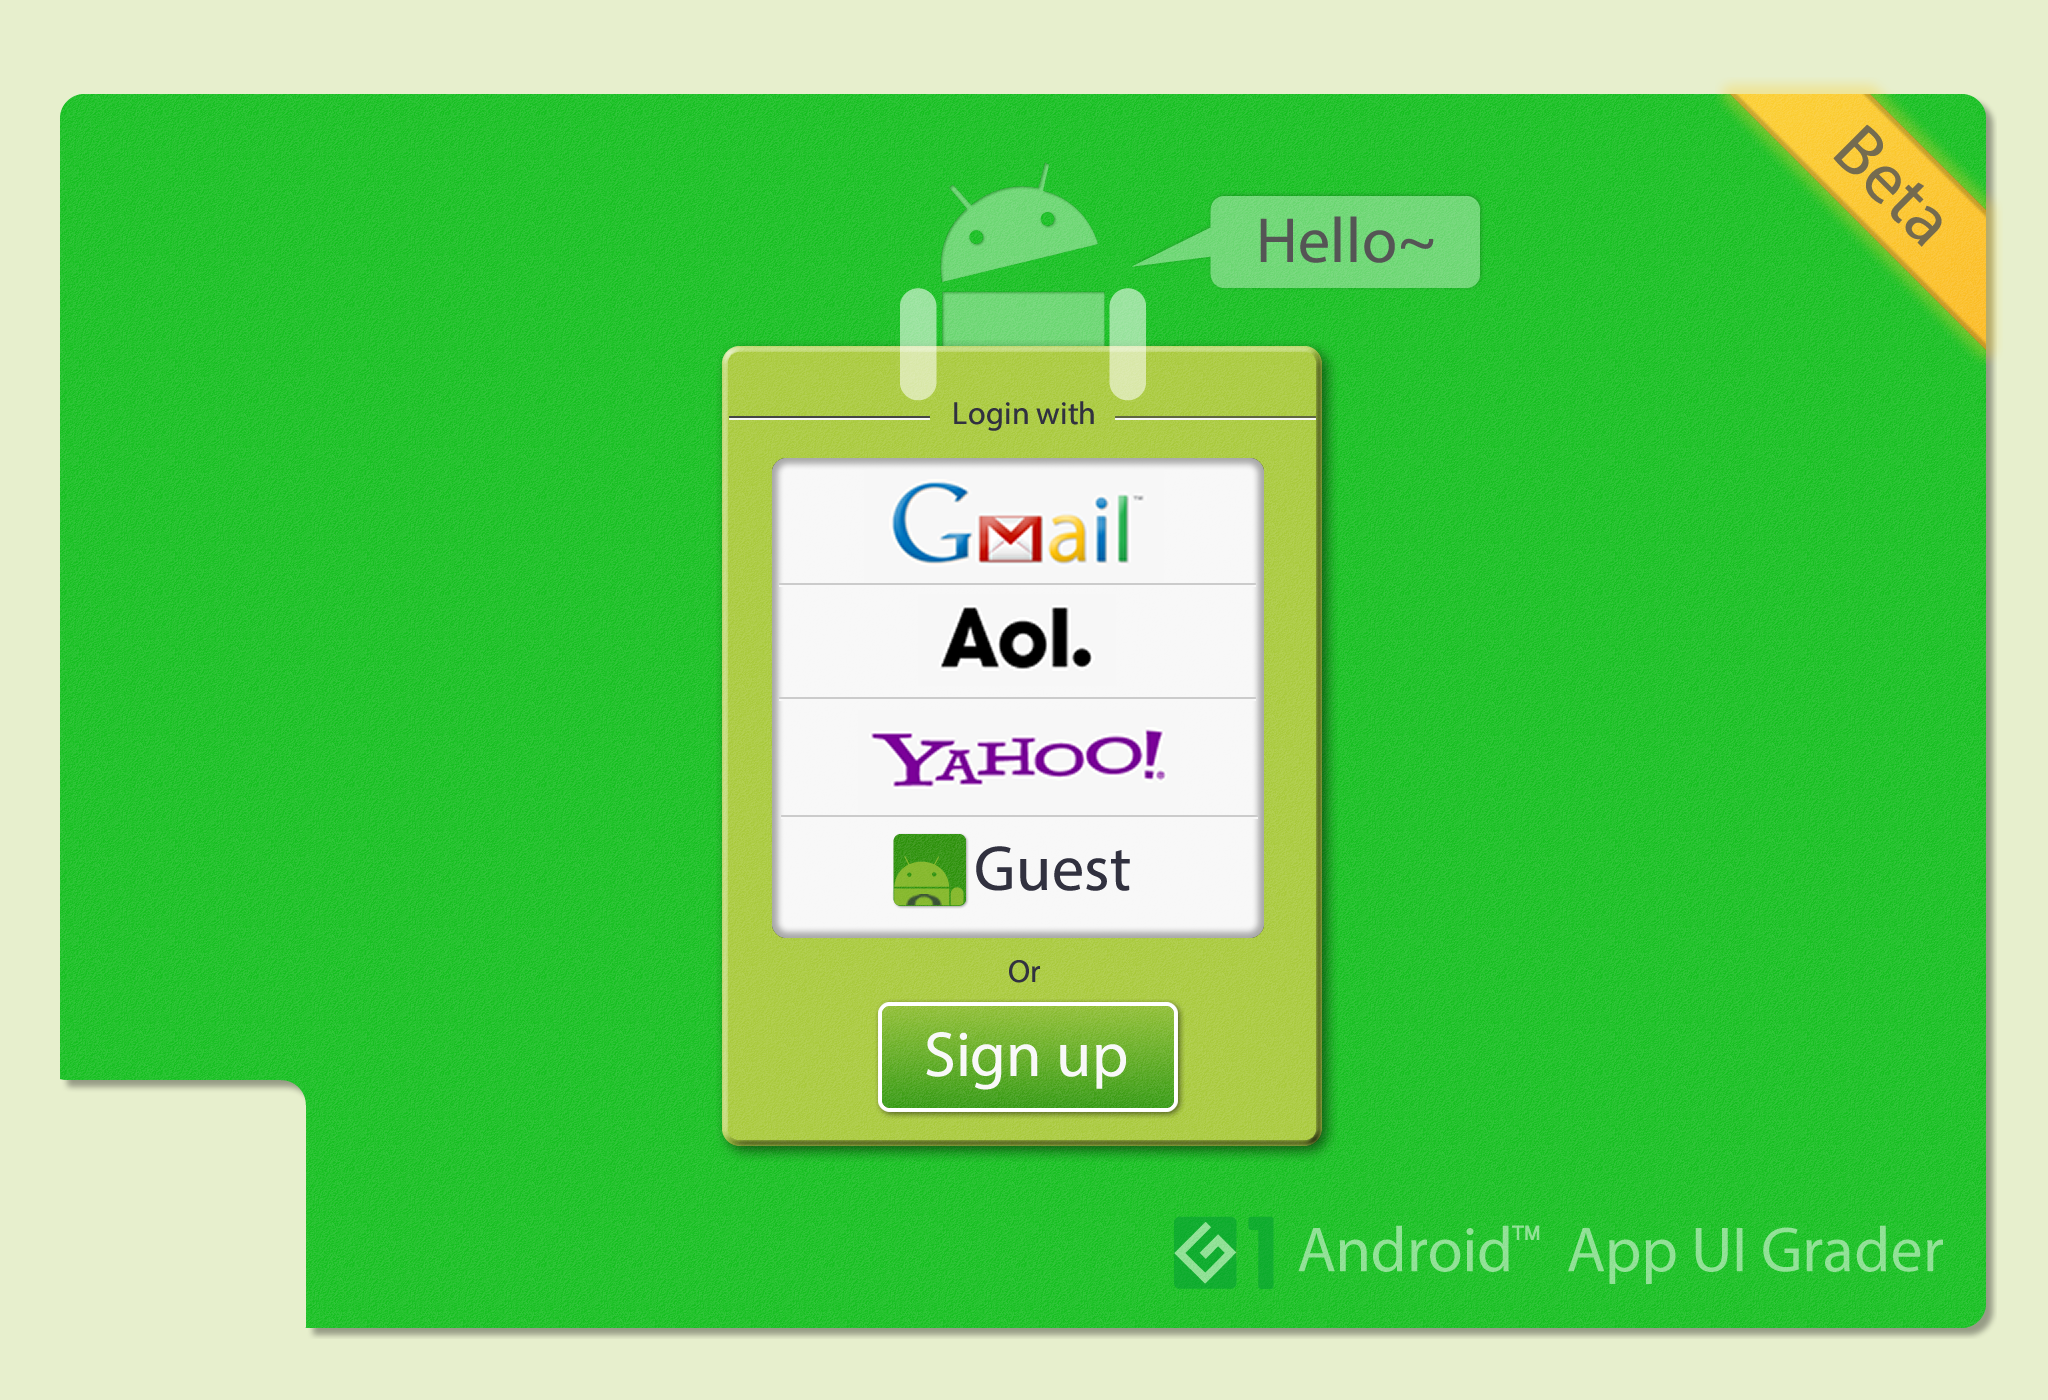
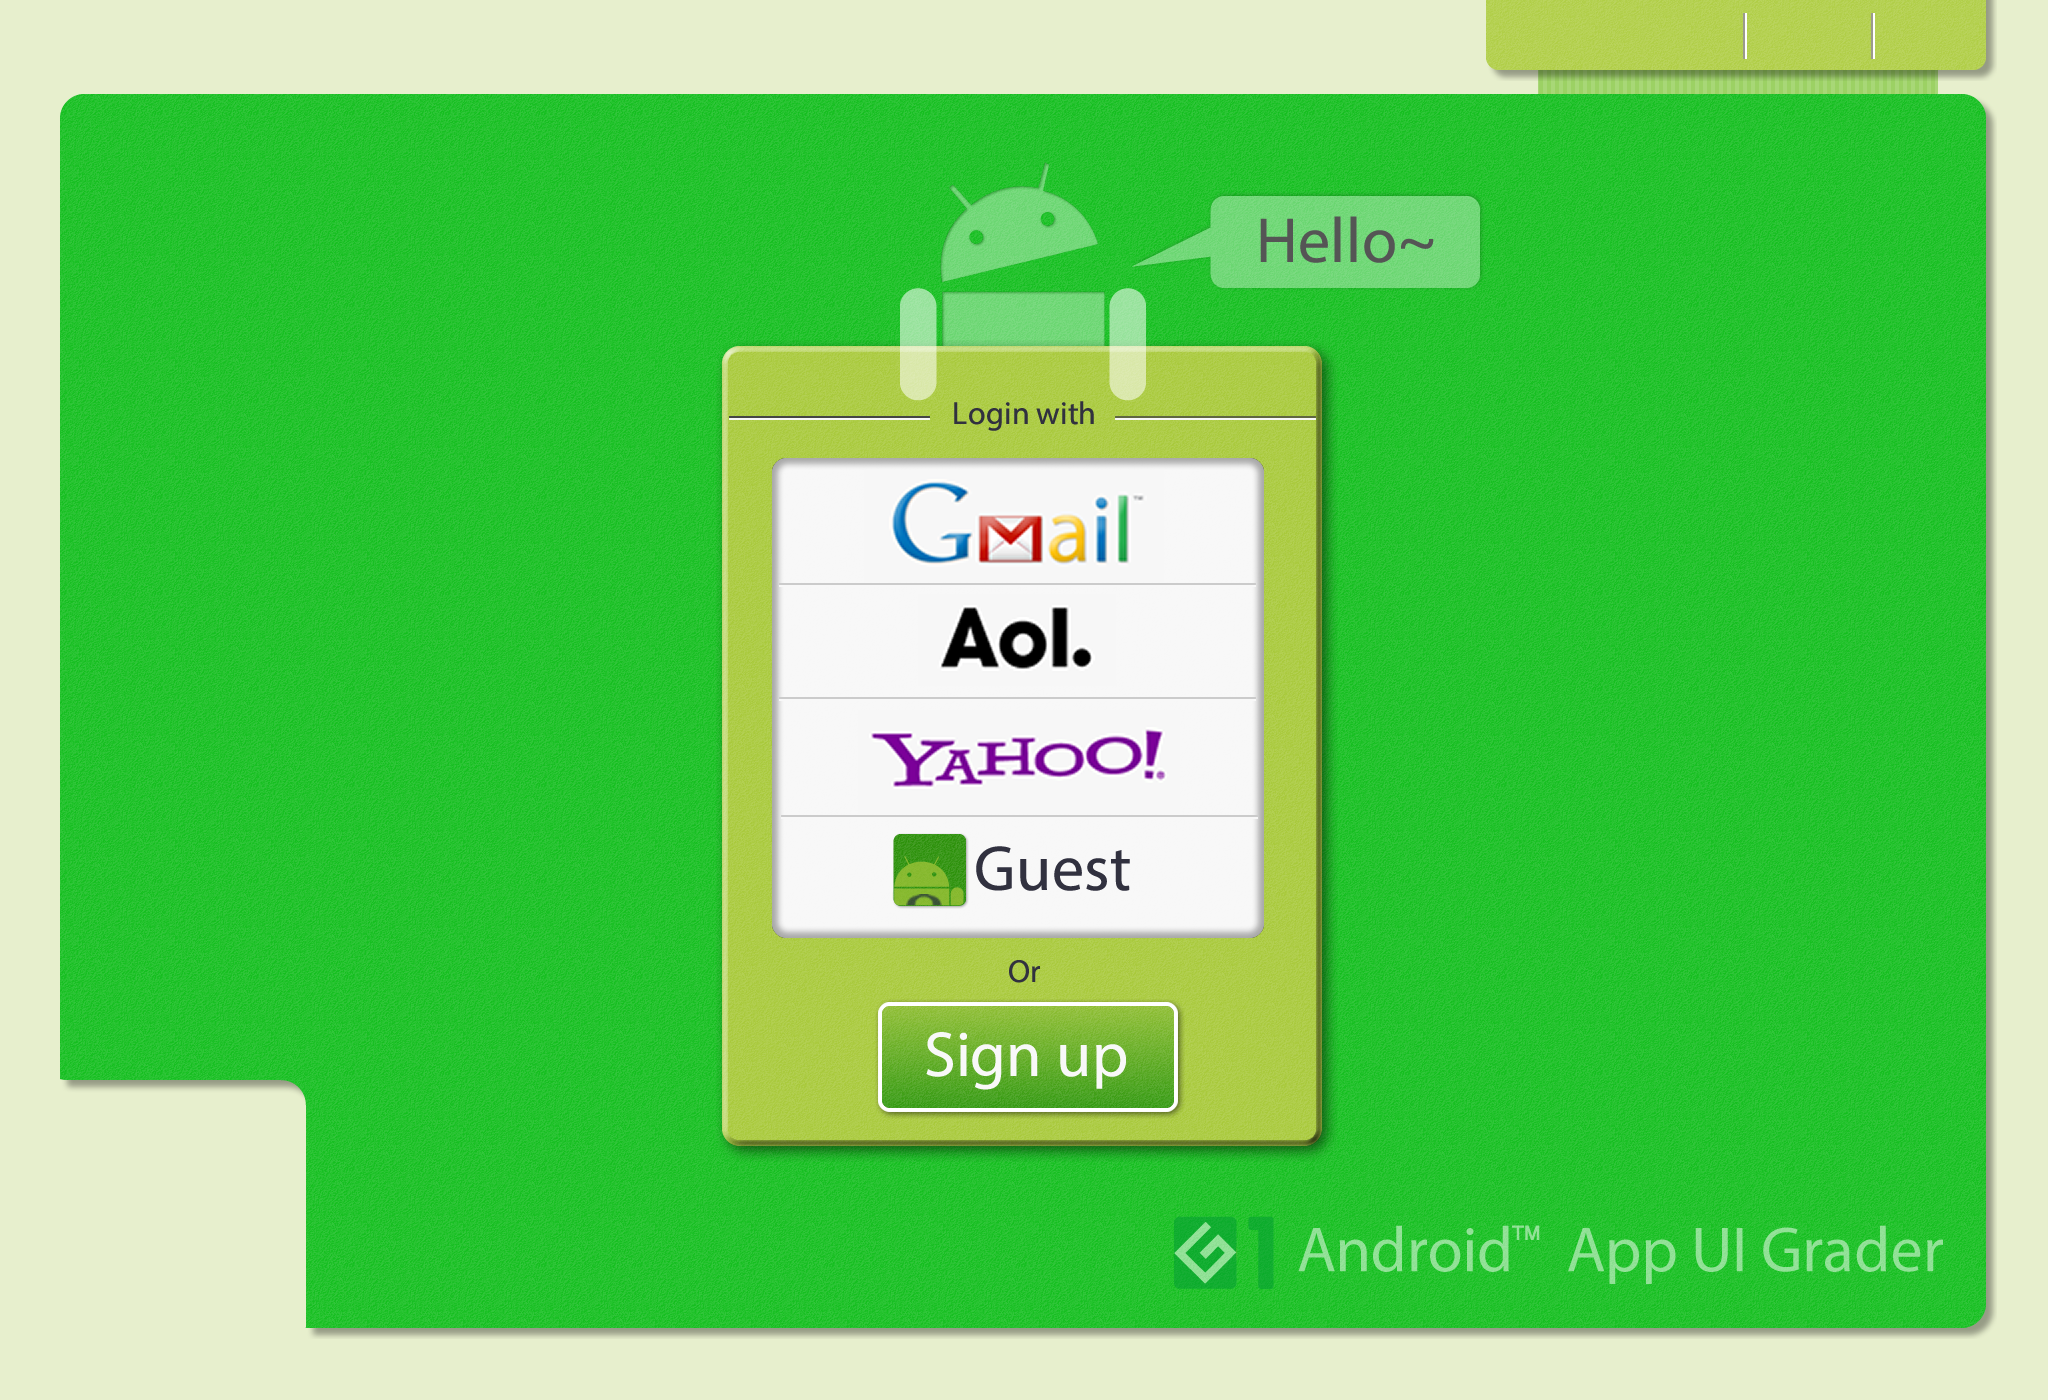
add the profile bar to every page

Changed region(s): [[0.7188, 0.0, 1.0, 0.2457]]

diff --git a/DatabaseOperation/web/css/print.less b/DatabaseOperation/web/css/print.less
@@ -3,6 +3,9 @@
 
 	html{
 		background-color:#e7efcd;
+		
+	
+		
   			}
   			
   				
@@ -14,7 +17,8 @@
                 background-color:transparent;	
                 width:1024px;
                 height:700px;
-                margin: 0px auto 0px auto;	
+            //    margin-top:-10px;	
+           //     padding: 0px;
 		}
 		
 		.treePanel{
@@ -61,8 +65,10 @@
 
 .top {
   background: #DDDDDD;
-  .at2x('top.png',876,32);
+  .at2x('top.png',1024,45);
+   margin-top:-10px;	
   height:45px;
+   width: 1024px; 
 }
 
 	.result_return_panel {

diff --git a/DatabaseOperation/web/css/indext.less b/DatabaseOperation/web/css/indext.less
@@ -16,6 +16,7 @@
                 width:1024px;
                 height:700px;
                 margin: 0px auto 0px auto;	
+                   margin-top:-10px;
 		}   
 		
 	
@@ -37,6 +38,8 @@
         //	float:left;
         		width:240px;
         		height:56px;
+        		
+         
         	}
         	
         	.AOL {

diff --git a/DatabaseOperation/web/css/blockPrint.less b/DatabaseOperation/web/css/blockPrint.less
@@ -13,6 +13,7 @@
 }
   			
 .top{
+  margin-top:-10px;
  //.at2x('blockprint/result_head.png',1024,45);
  background-image:url('../images/blockprint/top.png');
 
@@ -169,6 +170,7 @@ width:1024px;
 .result_top{
 width:1024px;
 	 height:94px;
+	 	
 	 background-image:url('../images/blockprint/result_top.png');
 	
 }

diff --git a/DatabaseOperation/web/css/assignmentDisplay.less b/DatabaseOperation/web/css/assignmentDisplay.less
@@ -14,6 +14,7 @@ html{
                 width:1024px;
                 height:700px;
                 margin: 0px auto 0px auto;
+                margin-top:-10px;
   			
   			}
   			

diff --git a/DatabaseOperation/web/css/assignmentDisplayStudent.less b/DatabaseOperation/web/css/assignmentDisplayStudent.less
@@ -13,6 +13,7 @@ html{
                 width:1024px;
                 height:700px;
                 margin: 0px auto 0px auto;
+                margin-top:-10px;
   			
   			}
   			

diff --git a/DatabaseOperation/web/css/register.less b/DatabaseOperation/web/css/register.less
@@ -14,6 +14,7 @@ html{
                 width:1024px;
                 height:700px;
                 margin: 0px auto 0px auto;	
+                   margin-top:-10px;
 		}
 		
 		

diff --git a/DatabaseOperation/web/css/login.less b/DatabaseOperation/web/css/login.less
@@ -15,6 +15,7 @@ html{
                 width:1024px;
                 height:700px;
                 margin: 0px auto 0px auto;	
+                margin-top:-10px;
 		}
 		
 		

diff --git a/DatabaseOperation/web/css/adminLogin.less b/DatabaseOperation/web/css/adminLogin.less
@@ -16,6 +16,7 @@ html {
 	height:700px;
 	width:1024px;
 	margin: 0px auto 0px auto;
+	margin-top:-10px;
 }
 
 .loginPanel {

diff --git a/DatabaseOperation/web/css/loginErr.less b/DatabaseOperation/web/css/loginErr.less
@@ -13,6 +13,7 @@ html {
 	width: 1024px;
 	height: 700px;
 	margin: 0px auto 0px auto;
+	   margin-top:-10px;
 }
 
 .back {
